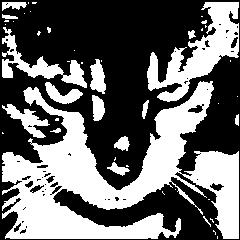
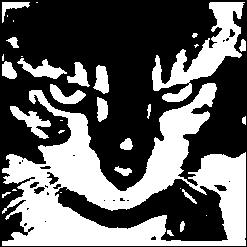
update phog

diff --git a/code/phog code/phogcv2.py b/code/phog code/phogcv2.py
@@ -1,0 +1,52 @@
+import numpy as np
+from skimage import filters, feature, data
+import matplotlib.pyplot as plt
+
+
+path = "..\\Cat_Identifier\\asset\\dataset\\bengal55\\bengal (1).jpg"
+
+def compute_phog(image, levels, bins):
+    phog = []
+    histograms = []
+    for i in range(levels):
+        histograms.append([])
+        phog.append([])
+    # Compute gradient magnitude and orientation
+    gx = filters.sobel_v(image)
+    gy = filters.sobel_h(image)
+    gradient_magnitude = np.sqrt(gx**2 + gy**2)
+    gradient_orientation = np.arctan2(gy, gx)
+    gradient_orientation[gradient_orientation < 0] += np.pi
+    
+    height, width = image.shape
+    block_size = (width//(2**levels), height//(2**levels))
+    # Compute gradient histograms
+    for i in range(height//block_size[1]):
+        for j in range(width//block_size[0]):
+            bin_idx = np.floor(bins * gradient_orientation[i*block_size[1]:(i+1)*block_size[1], j*block_size[0]:(j+1)*block_size[0]] / (2*np.pi))
+            level = np.log2(max(block_size)) - np.log2(min(block_size, width//(j+1), height//(i+1)))
+            for k in range(int(bins)):
+                histograms[int(level)][i*width//block_size[0]+j][k] = np.sum(gradient_magnitude[(gradient_orientation >= 2*np.pi*k/bins) & 
+                                                                                                (gradient_orientation < 2*np.pi*(k+1)/bins) & 
+                                                                                                (bin_idx == k)])
+    # Concatenate histograms into a single feature vector
+    for i in range(levels):
+        phog[i] = np.concatenate(histograms[i])
+    return np.concatenate(phog)
+
+
+# Load an example image
+imarr = np.array(path)
+image = imarr
+
+# Compute the PHOG descriptor
+phog_descriptor = compute_phog(image, 3, 8)
+
+print("PHOG Descriptor Shape:", phog_descriptor.shape)
+
+# Plot the original image
+plt.figure(figsize=(5,5))
+plt.imshow(image)
+plt.axis('off')
+plt.show()
+

diff --git a/code/Otsu/Otsupil.py b/code/Otsu/Otsupil.py
@@ -36,12 +36,9 @@ for t in range(256):
 im = im.point(lambda x: 255 if x > threshold else 0)
 
 # Save the binary image
-<<<<<<< HEAD
 im.save("..\\Cat_Identifier\\code\\Otsu\\binary_im.jpg")
-=======
 im.save("..\\Cat_Identifier\\code\\Otsu\\binary_image.jpg")
 im.show("binary_image.jpg")
->>>>>>> 6eae9094614df40a539e298681da8b00ab2d9b58
 
 # Work
 

diff --git a/code/ImportImg/impt.py b/code/ImportImg/impt.py
@@ -1,0 +1,7 @@
+import os
+
+os.chdir('..\\Cat_Identifier\\asset\\dataset\\bengal55')
+image_list = os.listdir()
+image_list = [a for a in image_list if a.endswith('jpg')]
+
+print(image_list)
